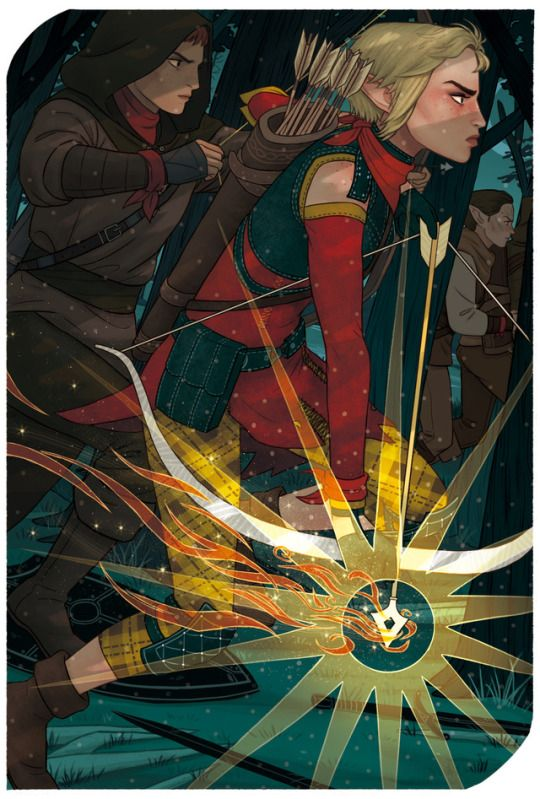
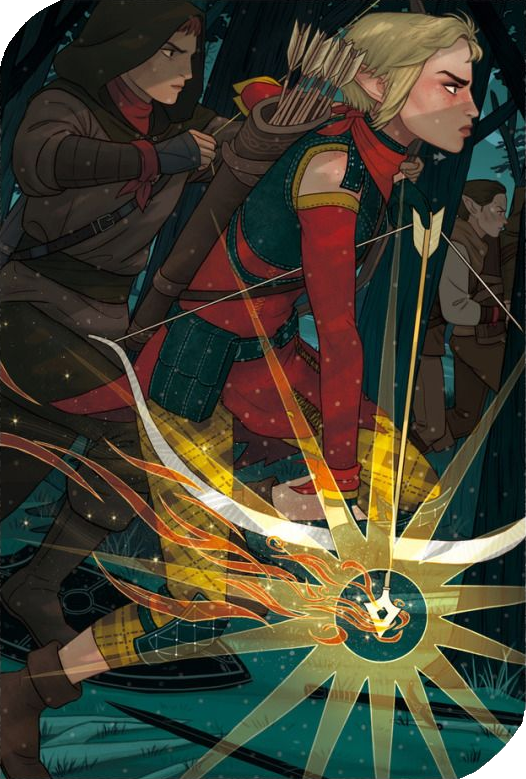
Add files via upload

diff --git a/Cartes.js b/Cartes.js
@@ -264,51 +264,51 @@ let argD_go_apocalypse = [tour];
 let argG_go_apocalypse = [tour];
 
 // on créée les cartes
-const bonne_recolte = new carte("Bonnes récoltes", "Bonne nouvelle ! Les récoltes ont été fructueuses votre altesse. Nous pourrions en faire profiter le peuple, ou entreposer les excédents pour nous constituer des réserves.", "Nourire le peuple", "Garder les recoltes pour soit", effetD_bonne_recolte, effetG_bonne_recolte, argD_bonne_recolte, argG_bonne_recolte, "./paysan.jpeg");
+const bonne_recolte = new carte("Bonnes récoltes", "Bonne nouvelle ! Les récoltes ont été fructueuses votre altesse. Nous pourrions en faire profiter le peuple, ou entreposer les excédents pour nous constituer des réserves.", "Nourire le peuple", "Garder les recoltes pour soit", effetD_bonne_recolte, effetG_bonne_recolte, argD_bonne_recolte, argG_bonne_recolte, "./paysan.png");
 
 const bandit = new carte("Bandits", "Un groupe de bandits pille nos terres et terrorise notre peuple. Nous devons envoyer notre armée !", "Ne rien faire.", "Envoyer l'armée pour arréter les bandits", effetD_bandit, effetG_bandit, argD_bandit, argG_bandit, "./armee.png");
 
-const mauvaise_recolte = new carte("Mauvaises récoltes", "Monseigneur ! Les récoltes sont mauvaises cette année... Nous pourrions donner moins de pain au peuple ou réduire les rations de la garde, mais il faut choisir.", "Nourrir le peuple", "Nourrir la garde", effetD_mauvaise_recolte, effetG_mauvaise_recolte, argD_mauvaise_recolte, argG_mauvaise_recolte, "./paysan.jpeg");
+const mauvaise_recolte = new carte("Mauvaises récoltes", "Monseigneur ! Les récoltes sont mauvaises cette année... Nous pourrions donner moins de pain au peuple ou réduire les rations de la garde, mais il faut choisir.", "Nourrir le peuple", "Nourrir la garde", effetD_mauvaise_recolte, effetG_mauvaise_recolte, argD_mauvaise_recolte, argG_mauvaise_recolte, "./paysan.png");
 
 const potion2 = new carte("Potion", "Souhaiteriez-vous être un leader charismatique monseigneur ? Ou préférez-vous une force surhumaine ? J'ai justement deux potions pour ça...", "Devenir un leader charismatique", "Avoir une force surhumaine", effetD_potion2, effetG_potion2, argD_potion2, argG_potion2, "./potion.png");
 
 const chasse = new carte("Chasse", "La chasse est un succès monseigneur ! Souhaitez-vous organiser un banquet pour célébrer l'occasion ? Nous pourrions inviter le peuple afin d'améliorer votre image ou plutôt le réserver à la bourgeoisie des pays voisins.", "Inviter le peuple", "Inviter la bourgeoisie étrangère", effetD_chasse, effetG_chasse, argD_chasse, argG_chasse, "./chasse.png");
 
-const dragon = new carte("Dragon", "Un dragon sévit dans les montagnes au Nord. Nous devons le chasser ! Nous pourrions demander de l'aide à l'Elgise en déclarant le dragon comme une créature maléfique. Elle se chargerait de former une armée de croisés, mais notre peuple en pâtirait.", "Demander l'aide de l'Eglise", "Envoyer l'armée", effetD_dragon, effetG_dragon, argD_dragon, argG_dragon, "./dragon.jpeg");
+const dragon = new carte("Dragon", "Un dragon sévit dans les montagnes au Nord. Nous devons le chasser ! Nous pourrions demander de l'aide à l'Elgise en déclarant le dragon comme une créature maléfique. Elle se chargerait de former une armée de croisés, mais notre peuple en pâtirait.", "Demander l'aide de l'Eglise", "Envoyer l'armée", effetD_dragon, effetG_dragon, argD_dragon, argG_dragon, "./dragon.png");
 
-const guerre = new carte("Guerre", "Des rapports de nos espions nous informent que la nation voisine renforçait dangereusement son armée près de notre frontière. Nous pourrions leur déclarer la guerre de manière préventive au risque de fragiliser notre propre armée, ou essayer de parlementer.", "Déclarer la guerre", "Parlementer", effetD_guerre, effetG_guerre, argD_guerre, argG_guerre, "./parlementer.jpeg");
+const guerre = new carte("Guerre", "Des rapports de nos espions nous informent que la nation voisine renforçait dangereusement son armée près de notre frontière. Nous pourrions leur déclarer la guerre de manière préventive au risque de fragiliser notre propre armée, ou essayer de parlementer.", "Déclarer la guerre", "Parlementer", effetD_guerre, effetG_guerre, argD_guerre, argG_guerre, "./parlementer.png");
 
-const investissement = new carte("Investissement", "Monseigneur, je voudrais ouvrir une taverne, mais il me manque quelques fonds pour le droit de propriété. Si vous vouliez bien investir dans mon projet, nous pourrions tous deux en tirer un sacré bénéfice. Qu'en dites-vous ?", "Investir", "Ne rien faire", effetD_investissement, effetG_investissement, argD_investissement, argG_investissement, "./paysan2.jpeg");
+const investissement = new carte("Investissement", "Monseigneur, je voudrais ouvrir une taverne, mais il me manque quelques fonds pour le droit de propriété. Si vous vouliez bien investir dans mon projet, nous pourrions tous deux en tirer un sacré bénéfice. Qu'en dites-vous ?", "Investir", "Ne rien faire", effetD_investissement, effetG_investissement, argD_investissement, argG_investissement, "./paysan2.png");
 
-const peche = new carte("Pêche", "Mon roi, nous devrions profiter de ce beau temps pour organiser une grande pêche. Cela permettrait d'offrir une distraction au peuple, mais les éloignerait des champs et de leur travail.", "Partir pêcher", "Laisser le peuple travailler", effetD_peche, effetG_peche, argD_peche, argG_peche, "./paysan2.jpeg");
+const peche = new carte("Pêche", "Mon roi, nous devrions profiter de ce beau temps pour organiser une grande pêche. Cela permettrait d'offrir une distraction au peuple, mais les éloignerait des champs et de leur travail.", "Partir pêcher", "Laisser le peuple travailler", effetD_peche, effetG_peche, argD_peche, argG_peche, "./paysan2.png");
 
-const relique = new carte("Relique", "Une expédition, envoyée pour explorer la région boisée au Nord-Est, a découvert une étrange boîte dorée. D'après notre abbé, il s'agirait de la relique de Saint Roland. Nous devrions organiser une grande procession pour l'entreposer dans notre cathédrale. Désirez-vous laisser l'Eglise s'en charger ?", "Laisser l'Eglise s'en charger", "Tout organiser", effetD_relique, effetG_relique, argD_relique, argG_relique, "./pretre2.jpeg");
+const relique = new carte("Relique", "Une expédition, envoyée pour explorer la région boisée au Nord-Est, a découvert une étrange boîte dorée. D'après notre abbé, il s'agirait de la relique de Saint Roland. Nous devrions organiser une grande procession pour l'entreposer dans notre cathédrale. Désirez-vous laisser l'Eglise s'en charger ?", "Laisser l'Eglise s'en charger", "Tout organiser", effetD_relique, effetG_relique, argD_relique, argG_relique, "./pretre2.png");
 
 const troubadour = new carte("Troubadour", "Messire ! Permettez-moi de me présenter. Je suis le grand Jean de Boër, troubadour itinérant. Je souhaitais me produire ici quelques temps. Je pourrais vous proposer une partie de mes recettes...", "Accepter sa proposition", "Lui laisser l'intégralité de ses recettes", effetD_troubadour, effetG_troubadour, argD_troubadour, argG_troubadour, "./troubadour.jpeg");
 
 const trahison_general = new carte("Trahison du général", "Mon roi ! Votre général a comploté contre vous ! Il a rallié plusieurs officiers à sa cause et s'apprête à vous renverser. Nous devons agir !", "Exécuter les traîtres", "Envoyer le général à la guerre dans une contrée lointaine", effetD_trahison_general, effetG_trahison_general, argD_trahison_general, argG_trahison_general, "./armee.png");
 
-const barbares = new carte("Barbares", "Des barbares pillent nos églises et tuent nos prêtres ! Envoyez immédiatement l'armée pour les protéger !", "Protéger les prêtres", "Ignorer leur problème", effetD_barbares, effetG_barbares, argD_barbares, argG_barbares, "./pretre2.jpeg");
+const barbares = new carte("Barbares", "Des barbares pillent nos églises et tuent nos prêtres ! Envoyez immédiatement l'armée pour les protéger !", "Protéger les prêtres", "Ignorer leur problème", effetD_barbares, effetG_barbares, argD_barbares, argG_barbares, "./pretre2.png");
 
-const voleur = new carte("Voleur", "Nous avons surpris un voleur qui s'était introduit dans notre cathédrale. Il tenait dans ses mains une de nos reliques, et son sac était rempli d'argenterie. Il semblerait que cet homme soit une sorte de héro du peuple qui volerait aux riches. Un certain Borin des forêts. Nous devrions l'enfermer dans nos geôles pour l'exemple...", "Emprisonner Borin des Forêts", "Relâcher Borin des Forêts", effetD_voleur, effetG_voleur, argD_voleur, argG_voleur, "./voleur.jpeg");
+const voleur = new carte("Voleur", "Nous avons surpris un voleur qui s'était introduit dans notre cathédrale. Il tenait dans ses mains une de nos reliques, et son sac était rempli d'argenterie. Il semblerait que cet homme soit une sorte de héro du peuple qui volerait aux riches. Un certain Borin des forêts. Nous devrions l'enfermer dans nos geôles pour l'exemple...", "Emprisonner Borin des Forêts", "Relâcher Borin des Forêts", effetD_voleur, effetG_voleur, argD_voleur, argG_voleur, "./voleur.png");
 
-const joutes = new carte("Joutes", "C'est le festival du printemps seigneur ! Bien que cela représente un coût, nous pourrions organiser des joutes pour divertir le peuple.", "Organiser les joutes", "Ne rien organiser", effetD_joutes, effetG_joutes, argD_joutes, argG_joutes, "./joute.jpeg");
+const joutes = new carte("Joutes", "C'est le festival du printemps seigneur ! Bien que cela représente un coût, nous pourrions organiser des joutes pour divertir le peuple.", "Organiser les joutes", "Ne rien organiser", effetD_joutes, effetG_joutes, argD_joutes, argG_joutes, "./joute.png");
 
-const gisement = new carte("Gisement", "Nous avons découvert un gisement de minerai. Vous pourriez utiliser le métal ainsi extrait pour équiper l'armée ou pour notre économie.", "Créer de la monnaie", "Créer des armes et de l'équipement", effetD_gisement, effetG_gisement, argD_gisement, argG_gisement, "./paysan2.jpeg");
+const gisement = new carte("Gisement", "Nous avons découvert un gisement de minerai. Vous pourriez utiliser le métal ainsi extrait pour équiper l'armée ou pour notre économie.", "Créer de la monnaie", "Créer des armes et de l'équipement", effetD_gisement, effetG_gisement, argD_gisement, argG_gisement, "./paysan2.png");
 
-const academie_magie = new carte("Construction d'une académie de magie", "Nous pourrions construire une académie de magie et d'alchimie mon seigneur. Evidemment, nous ferions profiter la couronne des profits générés par l'alchimie...", "Construire l'académie", "Ne rien construire", effetD_academie_magie, effetG_academie_magie, argD_academie_magie, argG_academie_magie, "./academie_magie.jpeg");
+const academie_magie = new carte("Construction d'une académie de magie", "Nous pourrions construire une académie de magie et d'alchimie mon seigneur. Evidemment, nous ferions profiter la couronne des profits générés par l'alchimie...", "Construire l'académie", "Ne rien construire", effetD_academie_magie, effetG_academie_magie, argD_academie_magie, argG_academie_magie, "./academie_magie.png");
 
-const banque = new carte("Construction d'une banque", "Nous pourrions construire une banque pour vous monseigneur. Elle vous permettrait de réaliser un bon profit.", "Construire la banque", "Ne rien construire", effetD_banque, effetG_banque, argD_banque, argG_banque, "./banque.jpeg");
+const banque = new carte("Construction d'une banque", "Nous pourrions construire une banque pour vous monseigneur. Elle vous permettrait de réaliser un bon profit.", "Construire la banque", "Ne rien construire", effetD_banque, effetG_banque, argD_banque, argG_banque, "./banque.png");
 
 const cachots = new carte("Construction de cachots", "Le taux de criminalité dans nos villes est trop élevé. Vous devriez ordonner la création de cachots pour emprisonner les criminels.", "Construire les cachots", "Ne rien construire", effetD_cachots, effetG_cachots, argD_cachots, argG_cachots, "./armee.png");
 
 const caserne = new carte("Construction d'une caserne", "Mon roi, nous pourrions construire une caserne et enrôler de nouvelles recrues pour renforcer nos défenses.", "Construire une caserne", "Ne rien construire", effetD_caserne, effetG_caserne, argD_caserne, argG_caserne, "./armee.png");
 
-const cathedrale = new carte("Construction d'une cathédrale", "La foi du peuple est vascillante, je le sens ! Nous devrions ordonner la construction d'une grande cathédrale à la gloire des dieux.", "Construire la cathédrale", "Ne rien construire", effetD_cathedrale, effetG_cathedrale, argD_cathedrale, argG_cathedrale, "./pretre2.jpeg");
+const cathedrale = new carte("Construction d'une cathédrale", "La foi du peuple est vascillante, je le sens ! Nous devrions ordonner la construction d'une grande cathédrale à la gloire des dieux.", "Construire la cathédrale", "Ne rien construire", effetD_cathedrale, effetG_cathedrale, argD_cathedrale, argG_cathedrale, "./pretre2.png");
 
-const grenier = new carte("Construction d'une grenier", "Nos récoltes sont régulièrement à l'origine de surplus, mais sans moyen de les entreposer, ils sont perdus. Nous devrions construire un grenier pour les entreposer.", "Construire un grenier", "Ne rien construire", effetD_grenier, effetG_grenier, argD_grenier, argG_grenier, "./paysan2.jpeg");
+const grenier = new carte("Construction d'une grenier", "Nos récoltes sont régulièrement à l'origine de surplus, mais sans moyen de les entreposer, ils sont perdus. Nous devrions construire un grenier pour les entreposer.", "Construire un grenier", "Ne rien construire", effetD_grenier, effetG_grenier, argD_grenier, argG_grenier, "./paysan2.png");
 
-const taverne = new carte("Construction d'une taverne", "Le peuple s'ennuie monseigneur... Nous pourrions construire une taverne afin de leur changer les idées.", "Construire une taverne", "Ne rien construire", effetD_taverne, effetG_taverne, argD_taverne, argG_taverne, "./paysan2.jpeg");
+const taverne = new carte("Construction d'une taverne", "Le peuple s'ennuie monseigneur... Nous pourrions construire une taverne afin de leur changer les idées.", "Construire une taverne", "Ne rien construire", effetD_taverne, effetG_taverne, argD_taverne, argG_taverne, "./paysan2.png");
 
 const tour_guet = new carte("Construction d'une tour de guet", "Nous subissons trop souvet des incursions des pays voisins ou des barbares qui profitent d'une faible sécurité aux frontières pour les traverser. Nous devrions construire des tours de guet afin de surveiller les limites de notre territoire.", "Construire une tour de guet", "Ne rien construire", effetD_tour_guet, effetG_tour_guet, argD_tour_guet, argG_tour_guet, "./armee.png");
 
